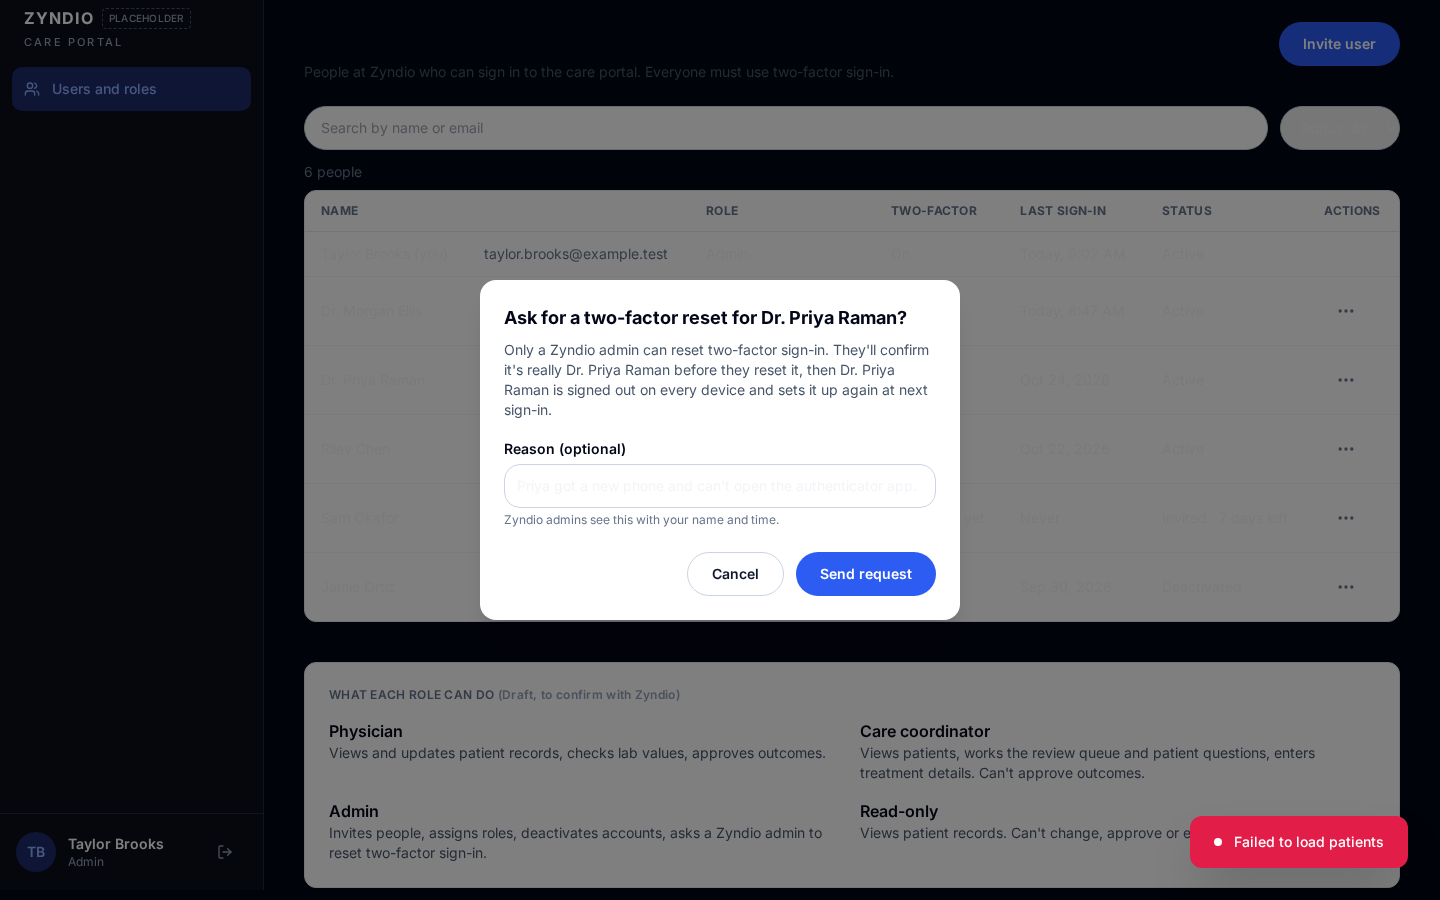
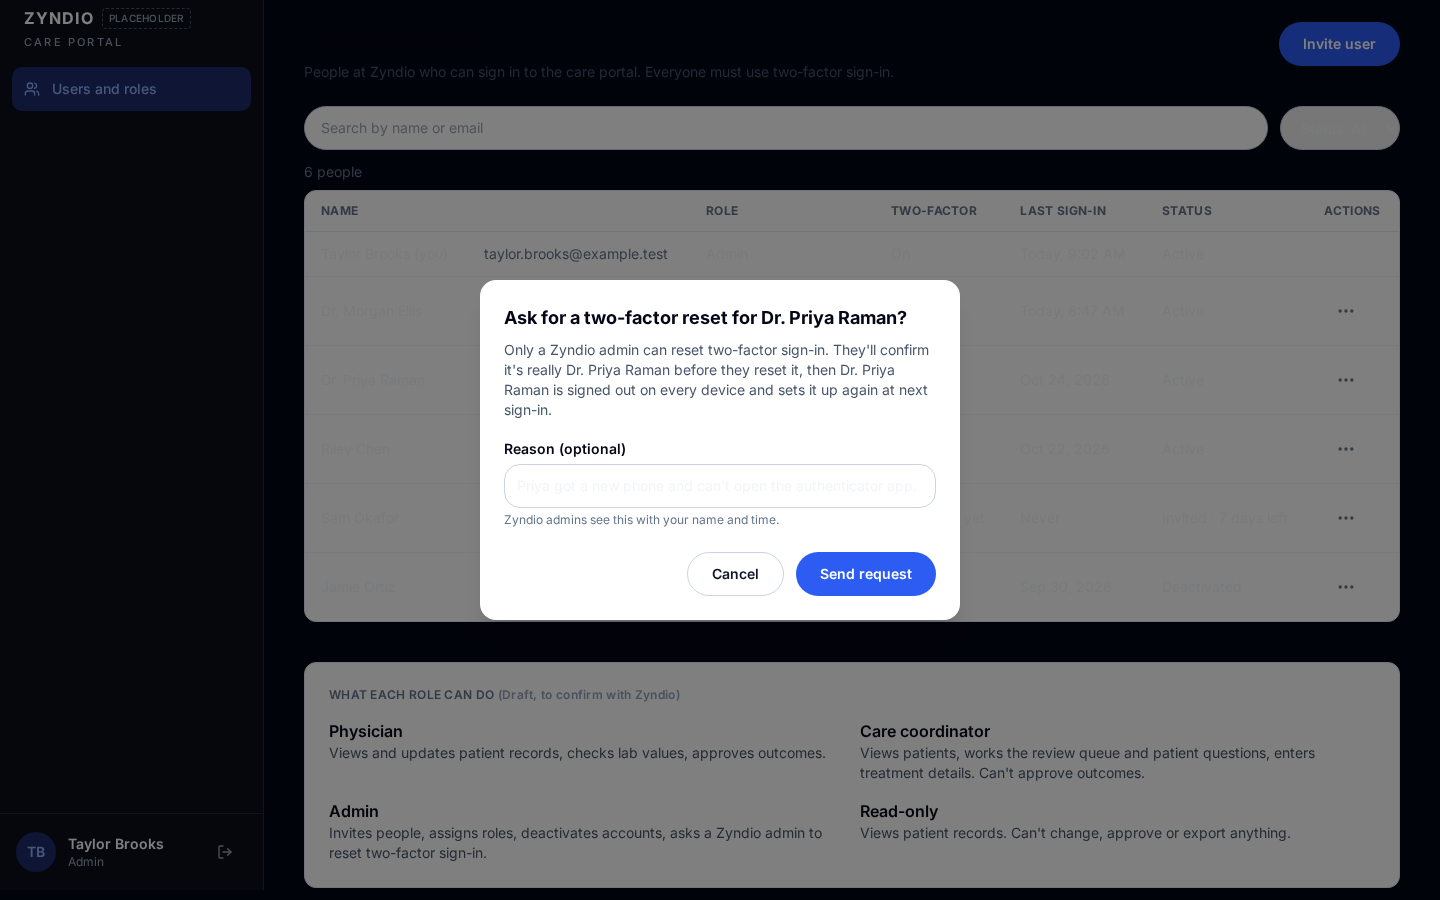
fix(admin): skip patient fetch in preview builds (no stray toast)
Preview /__preview screenshots were covered by AdminProvider's
"Failed to load patients" error toast because there is no live
Supabase. Skip patients/diet fetches when __PREVIEW_BUILD__ is true
and refresh the six 07 dialog captures.

LOCAL ONLY — no push.

Changed region(s): [[0.8125, 0.9022, 1.0, 0.9644]]

diff --git a/contexts/AdminContext.tsx b/contexts/AdminContext.tsx
@@ -81,8 +81,15 @@ export const AdminProvider: React.FC<AdminProviderProps> = ({ children }) => {
         }
     }, []);
 
-    // Load data on mount
+    // Load data on mount. Preview builds (__PREVIEW_BUILD__) serve the
+    // /__preview harness for Ava screenshots with no live Supabase, so skip
+    // the patients/diet fetches to avoid the stray "Failed to load patients"
+    // toast covering dialog captures.
     useEffect(() => {
+        if (typeof __PREVIEW_BUILD__ !== 'undefined' && __PREVIEW_BUILD__) {
+            setLoading(false);
+            return;
+        }
         fetchPatients();
         fetchDietPlans();
     }, [fetchPatients, fetchDietPlans]);
